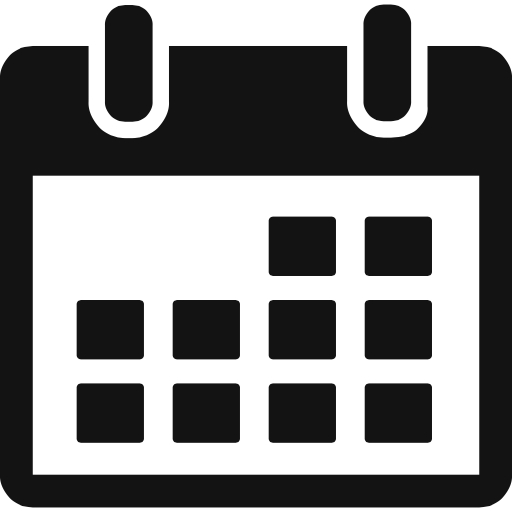
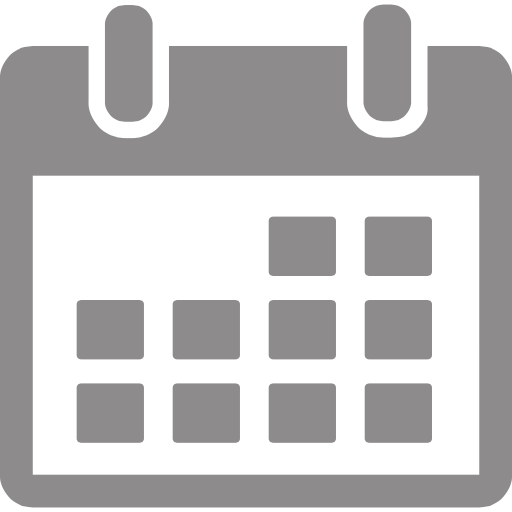
tooltip over client page, common pool page & videopage display data

diff --git a/Risebird.Web/wwwroot/Newassets/css/SelectedPriorityClientMeetings.css b/Risebird.Web/wwwroot/Newassets/css/SelectedPriorityClientMeetings.css
@@ -697,7 +697,70 @@ modal-content .modal-body {
 .mdc-radio .mdc-radio__native-control:enabled:checked + .mdc-radio__background .mdc-radio__outer-circle, .mdc-radio .mdc-radio__native-control:enabled + .mdc-radio__background .mdc-radio__inner-circle {
     border-color: #53a5f5;
 }
+[data-tooltip] {
+    position: relative;
+    z-index: 2;
+    cursor: pointer;
+}
 
+    /* Hide the tooltip content by default */
+    [data-tooltip]:before,
+    [data-tooltip]:after {
+        visibility: hidden;
+        -ms-filter: "progid:DXImageTransform.Microsoft.Alpha(Opacity=0)";
+        filter: progid: DXImageTransform.Microsoft.Alpha(Opacity=0);
+        opacity: 0;
+        pointer-events: none;
+    }
+
+    /* Position tooltip above the element */
+    [data-tooltip]:before {
+        position: absolute;
+        bottom: 150%;
+        left: 10%;
+        margin-bottom: 5px;
+        margin-left: -80px;
+        font-weight: 300;
+        padding: 7px;
+        width: 300px;
+        font-size: 13px;
+        height: auto;
+        -webkit-border-radius: 3px;
+        -moz-border-radius: 3px;
+        border-radius: 3px;
+        box-shadow: 3px 1px 3px rgba(0, 0, 0, 0.4);
+        background: grey;
+        color: #fff;
+        content: attr(data-tooltip);
+        text-align: center;
+        /* font-size: 14px; */
+        line-height: 1.3;
+        white-space: normal;
+    }
+
+    /* Triangle hack to make tooltip look like a speech bubble */
+    [data-tooltip]:after {
+        position: absolute;
+        bottom: 150%;
+        left: 50%;
+        margin-left: -5px;
+        width: 0;
+        border-top: 8px solid hsl(0deg 0% 50%);
+        border-right: 8px solid transparent;
+        border-left: 8px solid transparent;
+        content: " ";
+        font-size: 0;
+        line-height: 0;
+    }
+
+    /* Show tooltip content on hover */
+    [data-tooltip]:hover:before,
+    [data-tooltip]:hover:after {
+        visibility: visible;
+        -ms-filter: "progid:DXImageTransform.Microsoft.Alpha(Opacity=100)";
+        filter: progid: DXImageTransform.Microsoft.Alpha(Opacity=100);
+        opacity: 1;
+    }
 @media screen and (max-width:991px) {
     #ProctoringTable .label-type {
         white-space: normal;

diff --git a/Risebird.Web/wwwroot/Newassets/css/dark-theme.css b/Risebird.Web/wwwroot/Newassets/css/dark-theme.css
@@ -182,18 +182,18 @@ table {
         padding: 10px !important;
     }
 [type="date"] {
-    background: #f5f5f5 url(../img/grey-calendar-icon.png) 97% 50% no-repeat !important;
+    background: #f5f5f5 url(../img/dark-calendar-icon.png) 97% 50% no-repeat !important;
     background-size: 7% !important;
 }
 
 .mdc-card .modal .form-control[type="date"], .modal .form-control[type="date"] {
-    background: #181818 url(../img/orange-calendar-icon.png) 97% 50% no-repeat !important;
+    background: #181818 url(../img/dark-calendar-icon.png) 97% 50% no-repeat !important;
     background-size: 7% !important;
     padding: 10px !important;
 }
 
 [type="date"].form-control {
-    background: #181818 url(../img/grey-calendar-icon.png) 97% 50% no-repeat !important;
+    background: #181818 url(../img/dark-calendar-icon.png) 97% 50% no-repeat !important;
     background-size: 7% !important;
 }
 
@@ -435,7 +435,17 @@ div.dataTables_wrapper div.dataTables_info {
 }
 
 .info .info-title{color:#9a9a9a!important}
+input[type="radio"]:checked:before {
+    background: #787878 !important;
+}
 
+input[type="radio"]:checked {
+    border-color: #787878 !important;
+}
+
+.text-areadiv1 textarea {
+    background: #181818 !important;
+}
 @media screen and (max-width: 768px) {
     .d_active {
             background-color: #1a1a1a !important;

diff --git a/Risebird.Web/wwwroot/Newassets/css/dashboard-new.css b/Risebird.Web/wwwroot/Newassets/css/dashboard-new.css
@@ -2581,7 +2581,7 @@ ul.panel-controls > li > .dropdown-menu {
     width: 100%;
 }
 
-    .radio + .radio {
+/* .radio + .radio {
         margin-top: 0px;
     }
 
@@ -2605,13 +2605,43 @@ input[type='radio']:checked:after {
     display: inline-block;
     visibility: visible;
     border: 2px solid white;
-}
+}*/
     .radio-field {
     margin: 0px 5px;
     position: relative;
     top: -2px;
     color: #5f5c5c;
 }
+
+
+input[type='radio'] {
+    -webkit-appearance: none;
+    width: 18px;
+    height: 18px;
+    border-radius: 50%;
+    outline: none;
+    border: 1px solid gray;
+}
+
+    input[type='radio']:before {
+        content: '';
+        display: block;
+        width: 60%;
+        height: 60%;
+        margin: 20% auto;
+        border-radius: 50%;
+    }
+
+  
+
+
+
+
+
+
+
+
+
 
 .checkbox.pull-left, .checkbox.pull-right, .radio.pull-left, .radio.pull-right {
     width: auto;

diff --git a/Risebird.Web/wwwroot/RiseTube/css/osahan.css b/Risebird.Web/wwwroot/RiseTube/css/osahan.css
@@ -899,7 +899,7 @@ a:hover, h1, h2, h3, h4, h5, h6 {
 
 .video-card-body {
     padding: 10px;
-    height: 90px;
+    height: 135px;
 }
 
 .video-card-list .video-card-image {
@@ -911,6 +911,10 @@ a:hover, h1, h2, h3, h4, h5, h6 {
 
 .video-card-list .video-card-body {
     padding: 0;
+    height: auto;
+    float: left;
+    width: 225px;
+    margin-bottom: 10px;
 }
 
 .video-card-list {

diff --git a/Risebird.Web/wwwroot/Newassets/css/grey-theme.css b/Risebird.Web/wwwroot/Newassets/css/grey-theme.css
@@ -215,3 +215,15 @@ input[type='radio']:checked:after {
 .card-blue .card-body .client-field {
     color: #9a9a9a !important;
 }
+
+input[type="radio"]:checked:before {
+    background: #9a9a9a !important;
+}
+
+input[type="radio"]:checked {
+    border-color: #9a9a9a !important;
+}
+
+.text-areadiv1 textarea {
+    background: #f5f5f5 !important;
+}

diff --git a/Risebird.Web/wwwroot/Newassets/css/blue-theme.css b/Risebird.Web/wwwroot/Newassets/css/blue-theme.css
@@ -136,3 +136,14 @@ textarea::-webkit-scrollbar-thumb {
 .theme-settings .ts-body {
     background: #1091f9!important;
 }
+input[type="radio"]:checked:before {
+    background: #53a5f5!important;
+}
+
+input[type="radio"]:checked {
+    border-color: #53a5f5 !important;
+}
+
+.text-areadiv1 textarea {
+    background: #f5f5f5!important;
+}

diff --git a/Risebird.Web/wwwroot/Newassets/css/irf.css b/Risebird.Web/wwwroot/Newassets/css/irf.css
@@ -33,7 +33,13 @@ textarea::-webkit-scrollbar-thumb {
 .designation {
     color: #606060;
     font-weight: 500;
-    font-size: 14px;
+    font-size: 13px;
+    white-space: nowrap;
+    overflow: hidden;
+    text-overflow: ellipsis;
+    display: inline-block;
+    width: 144px;
+    line-height: 10px;
 }
 .l-hr {
     margin: 5px 0px;

diff --git a/Risebird.Web/wwwroot/Newassets/css/orange-theme.css b/Risebird.Web/wwwroot/Newassets/css/orange-theme.css
@@ -225,3 +225,15 @@ fill: rgb(255, 255, 255)!important;
 .dropdown-menu {
     border: none !important
 }
+
+input[type="radio"]:checked:before {
+    background: #ea6e28 !important;
+}
+
+input[type="radio"]:checked {
+    border-color: #ea6e28 !important;
+}
+
+.text-areadiv1 textarea {
+    background: #f5f5f5 !important;
+}

diff --git a/Risebird.Web/wwwroot/Newassets/css/risetube.css b/Risebird.Web/wwwroot/Newassets/css/risetube.css
@@ -367,6 +367,9 @@
         float: right;
     }
 
+
+
+
 .tooltip1 {
     position: relative;
     display: inline-block;
@@ -1107,7 +1110,7 @@ textarea::-webkit-scrollbar-thumb {
 
 .video-block .video-title {
     margin-bottom: 5px;
-    min-height: 40px;
+    min-height: 20px;
 }
 
 

diff --git a/Risebird.Web/wwwroot/Newassets/css/interview.css b/Risebird.Web/wwwroot/Newassets/css/interview.css
@@ -1371,7 +1371,7 @@ top:3px;
     .text-areadiv1 textarea {
         border: 0;
         min-height:80px;
-        background: #f5f5f5;
+       
         padding: 5px 10px 5px 10px;
         border-bottom: 1px rgba(0, 0, 0, 0.29) solid
     }
